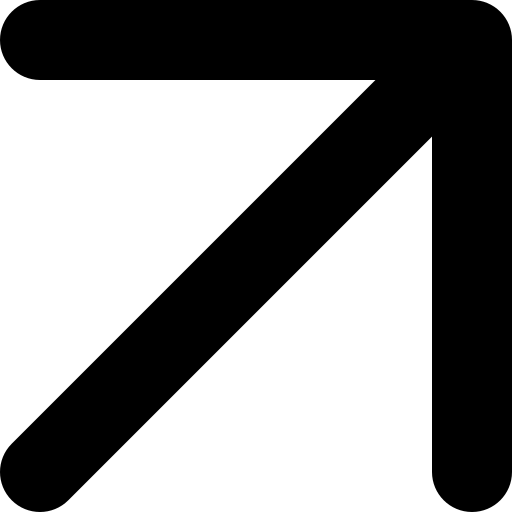
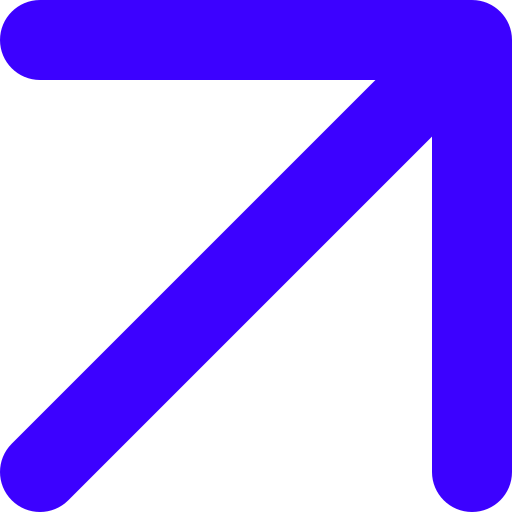
Image update

diff --git a/src/pages/Home.jsx b/src/pages/Home.jsx
@@ -42,7 +42,7 @@ const Home = () => {
             </h1>
 
             <p
-              className="text-lg font-semibold sm:text-xl md:text-2xl text-[#5285eb] mt-2"
+              className="text-lg font-semibold sm:text-xl md:text-2xl text-[#3C01FF] mt-2"
               onMouseEnter={() => gsap.to("#cursor", { scale: 2, duration: 0.3 })}
               onMouseLeave={() => gsap.to("#cursor", { scale: 1, duration: 0.3 })}
             >
@@ -80,7 +80,7 @@ const Home = () => {
                 onMouseEnter={() => gsap.to("#cursor", { scale: 3, duration: 0.3 })}
                 onMouseLeave={() => gsap.to("#cursor", { scale: 1, duration: 0.3 })}
               >
-                Hi, I'm <span className="text-[#5285eb] font-semibold">Sandran Kumaran Mohana Dharshan</span> — a graduate of <span className="text-[#5285eb] font-semibold">Cardiff Metropolitan University</span> with an HND in Computing and Software Engineering. I specialize in web and mobile app development, with a growing interest in desktop applications, continuously expanding my skills across platforms.
+                Hi, I'm <span className="text-[#3C01FF] font-semibold">Sandran Kumaran Mohana Dharshan</span> — a graduate of <span className="text-[#3C01FF] font-semibold">Cardiff Metropolitan University</span> with an HND in Computing and Software Engineering. I specialize in web and mobile app development, with a growing interest in desktop applications, continuously expanding my skills across platforms.
               </h1>
             </div>
 

diff --git a/src/pages/About.jsx b/src/pages/About.jsx
@@ -61,7 +61,7 @@ const About = () => {
               className="mt-6 sm:mt-10 md:mt-12 text-[2rem] sm:text-[2.5rem] md:text-[3.5rem] lg:text-[4.2rem] xl:text-[4.8rem] font-semibold leading-tight sm:leading-snug md:leading-none tracking-tight"
             >
               TRANSFORMING <br />
-              CONCEPTS <span className="text-[#C3FE00] px-1">INTO</span> <br />
+              CONCEPTS <span className="text-[#3C01FF] px-1">INTO</span> <br />
               SCALABLE <br />
               SOLUTIONS
             </h1>
@@ -75,7 +75,7 @@ const About = () => {
           >
             <div className="flex items-center justify-between mb-2 sm:mb-4">
               <span className="text-base sm:text-lg opacity-80">About Me</span>
-              <div className="w-6 h-6 sm:w-8 sm:h-8 rounded-full bg-[#C3FE00] text-black flex items-center justify-center font-bold">
+              <div className="w-6 h-6 sm:w-8 sm:h-8 rounded-full bg-[#3C01FF] text-black flex items-center justify-center font-bold">
                 ✶
               </div>
             </div>
